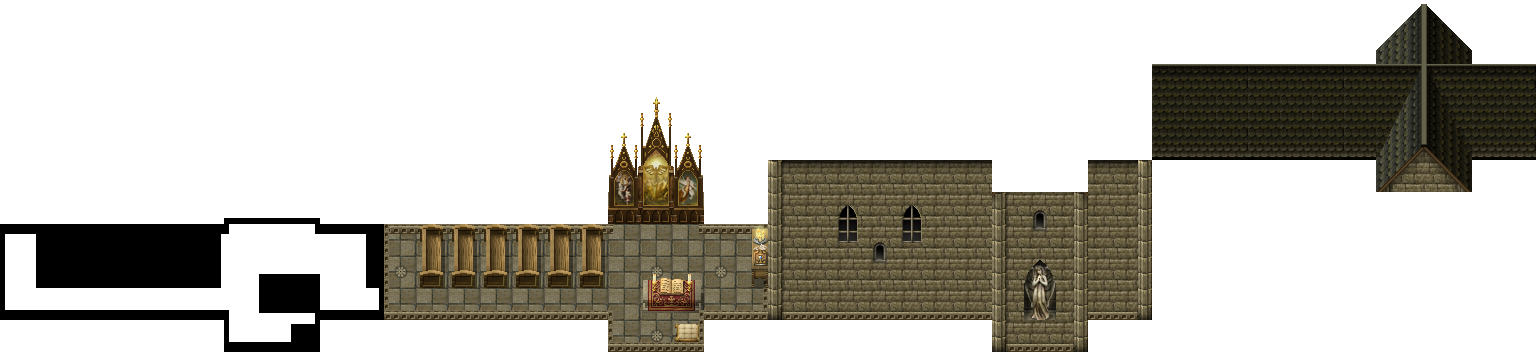
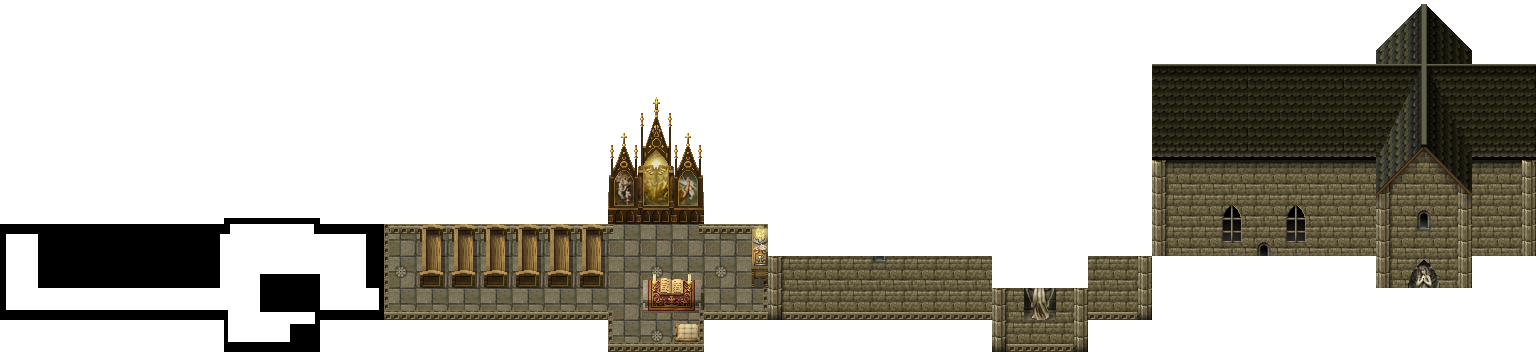
update game display

Changed region(s): [[0.5, 0.4375, 1.0, 0.8438]]

diff --git a/src/print_map.c b/src/print_map.c
@@ -7,26 +7,12 @@
 
 #include "rpg.h"
 
-void check_sprite_position(sprite_t *sprites, obj_t **obj, wind_t wind)
+void check_sprite_position(sprite_t *sprites, obj_t **obj, wind_t wind,
+int opt)
 {
-    for (int j = 0; j <= sprites->end_layout[2] - 1; j++) {
-        if (sprites->pos[j]->x < (obj[1]->pos.x - 416) ||
-            sprites->pos[j]->x > (obj[1]->pos.x + 416) ||
-            sprites->pos[j]->y < (obj[1]->pos.y - 256) ||
-            sprites->pos[j]->y > (obj[1]->pos.y + 256))
-            continue;
-        else {
-            sfSprite_setPosition(sprites->sprite,
-                                            *(sprites->pos[j]));
-            sfRenderWindow_drawSprite(wind.wind,
-                                            sprites->sprite, NULL);
-        }
-    }
-}
+    int j = (opt == -1) ? 0 : sprites->end_layout[opt];
 
-void check_sprite_position2(sprite_t *sprites, obj_t **obj, wind_t wind)
-{
-    for (int j = sprites->end_layout[2]; j <= sprites->end_layout[3] - 1; j++) {
+    for (; j <= sprites->end_layout[opt + 1] - 1; j++) {
         if (sprites->pos[j]->x < (obj[1]->pos.x - 416) ||
             sprites->pos[j]->x > (obj[1]->pos.x + 416) ||
             sprites->pos[j]->y < (obj[1]->pos.y - 256) ||
@@ -43,12 +29,16 @@ void check_sprite_position2(sprite_t *sprites, obj_t **obj, wind_t wind)
 
 void print_map(sprite_t **sprites, obj_t **obj, wind_t wind)
 {
-    for (int i = 0; sprites[i] != NULL; i++)
-        check_sprite_position(sprites[i], obj, wind);
+    for (int j = -1; j < 2; j++) {
+        for (int i = 0; sprites[i] != NULL; i++)
+            check_sprite_position(sprites[i], obj, wind, j);
+    }
 }
 
 void print_map2(sprite_t **sprites, obj_t **obj, wind_t wind)
 {
-    for (int i = 0; sprites[i] != NULL; i++)
-        check_sprite_position2(sprites[i], obj, wind);
+    for (int j = 2; j < 4; j++) {
+        for (int i = 0; sprites[i] != NULL; i++)
+            check_sprite_position(sprites[i], obj, wind, j);
+    }
 }

diff --git a/src/main.c b/src/main.c
@@ -15,7 +15,7 @@ int main(int ac, char **av)
 {
     rpg_t rpg;
     obj_t **obj = malloc(sizeof(obj_t *) * 10);
-    house_t **house = malloc(sizeof(house_t *) * 5);
+    house_t **house = malloc(sizeof(house_t *) * 6);
     sfVector2u windowSize;
 
     rpg.debug = 0;
@@ -33,16 +33,17 @@ int main(int ac, char **av)
     windowSize = sfRenderWindow_getSize(rpg.wind.wind);
     rpg.wind.view = sfView_createFromRect((sfFloatRect){0, 0, windowSize.x, windowSize.y});
 
-    obj[0] = create_object("assets/hero_hitbox.png", (sfVector2f){10000, 1280}, (sfIntRect){0, 0, 32, 16}, sfTrue);
-    obj[1] = create_object("assets/hero.png", (sfVector2f){10000, 1280}, (sfIntRect){0, 0, 32, 64}, sfFalse);
+    obj[0] = create_object("assets/hero_hitbox.png", (sfVector2f){10280, 2800}, (sfIntRect){0, 0, 32, 16}, sfTrue);
+    obj[1] = create_object("assets/hero.png", (sfVector2f){10280, 2800}, (sfIntRect){0, 0, 32, 64}, sfFalse);
     for (int i = 2; i < 10; i++)
         obj[i] = NULL;
-    obj[4] = create_object("assets/yes.png", V2F(0, 0), (sfIntRect){0, 0, 11777, 2561}, sfFalse);
-    house[0] = create_house(2, (sfVector2f){10400, 768});
-    house[1] = create_house(3, (sfVector2f){10720, 864});
+    //obj[4] = create_object("assets/yes.png", V2F(0, 0), (sfIntRect){0, 0, 11777, 2561}, sfFalse);
+    house[0] = create_house(2, (sfVector2f){9200, 768});
+    house[1] = create_house(3, (sfVector2f){9520, 864});
     house[2] = create_house(0, (sfVector2f){10944, 896});
     house[3] = create_house(1, (sfVector2f){10400, 1280});
-    house[4] = NULL;
+    house[4] = create_house(4, (sfVector2f){10272, 480});
+    house[5] = NULL;
 
     sfSprite_setOrigin(obj[1]->sprite, (sfVector2f){16, 60});
 

diff --git a/src/globals.c b/src/globals.c
@@ -180,32 +180,36 @@ const char *save_path[3] = {
     "saves/save3.txt"
 };
 
-const char *house_path[4] = {
+const char *house_path[5] = {
     "assets/maison1.png",
     "assets/maison2.png",
     "assets/auberge.png",
-    "assets/forge.png"
+    "assets/forge.png",
+    "assets/church.png"
 };
 
-const sfIntRect house_rects[4] = {
+const sfIntRect house_rects[5] = {
     {0, 0, 160, 320},
     {0, 0, 224, 256},
     {0, 0, 320, 448},
-    {0, 0, 192, 352}
+    {0, 0, 192, 352},
+    {0, 0, 384, 352}
 };
 
-const sfVector2f door_pos[4] = {
+const sfVector2f door_pos[5] = {
     {0, 256},
     {0, 192},
     {160, 352},
-    {95, 160}
+    {95, 160},
+    {0, 270}
 };
 
-const sfIntRect door_rects[4] = {
+const sfIntRect door_rects[5] = {
     {0, 64, 96, 64},
     {0, 0, 96, 64},
     {0, 352, 96, 96},
     {0, 224, 96, 64},
+    {0, 64, 96, 64}
 };
 
 void (* const menu[6])(rpg_t *, obj_t **, house_t **) = {

diff --git a/src/game_display.c b/src/game_display.c
@@ -34,14 +34,14 @@ static void debug_txt(rpg_t *rpg, obj_t *obj)
 static void display(rpg_t *rpg, obj_t **obj, house_t **house)
 {
     sfRenderWindow_setView(WIND.wind, WIND.view);
-    //print_map(MAP.sprite, obj, rpg->wind);
+    print_map(MAP.sprite, obj, rpg->wind);
     //sfRenderWindow_drawSprite(WIND.wind, obj[HERO_HB]->sprite, NULL);
-    sfRenderWindow_drawSprite(WIND.wind, obj[4]->sprite, NULL);
+    //sfRenderWindow_drawSprite(WIND.wind, obj[4]->sprite, NULL);
     house_display(rpg, house);
     for (int i = 3; i > 0; i--)
         if (obj[i] != NULL)
             sfRenderWindow_drawSprite(WIND.wind, obj[i]->sprite, NULL);
-    //print_map2(MAP.sprite, obj, rpg->wind);
+    print_map2(MAP.sprite, obj, rpg->wind);
     for (int i = 0; house[i] != NULL; i++)
         if (house[i]->display_house == 1)
             sfRenderWindow_drawSprite(WIND.wind, house[i]->tab[ROOF], NULL);

diff --git a/src/game_init.c b/src/game_init.c
@@ -7,6 +7,11 @@
 
 #include "rpg.h"
 
+void start_game(rpg_t *rpg, obj_t **obj, house_t **house)
+{
+    rpg->debug = 1;
+}
+
 void init_game(rpg_t *rpg, obj_t **obj, house_t **house)
 {
     sfVector2u windSize = sfRenderWindow_getSize(WIND.wind);
@@ -16,10 +21,12 @@ void init_game(rpg_t *rpg, obj_t **obj, house_t **house)
                                 (windSize.x * 0.6), (windSize.y * 0.6)});
     for (int i = 0; i < 715; i++)
         MAP.sprite[i] = NULL;
-    //map_init(rpg);
-    //create_map(rpg);
+    map_init(rpg);
+    create_map(rpg);
+    GAME.auberge = false;
+    if (GAME.objectiv == 0)
+        start_game(rpg, obj, house);
     if (rpg->debug == 1)
         rpg->debug_txt = create_text("assets/arial.ttf", "yes", 20, V2F(obj[1]->pos.x - 100, obj[1]->pos.y - 100));
-    GAME.auberge = false;
     game_loop(rpg, obj, house);
 }

diff --git a/src/map_init.c b/src/map_init.c
@@ -45,13 +45,13 @@ MAP.gid[l]->path, layers->map[y][x], posRect);
     }
 }
 
-void set_end_layout(int layout, sprite_t **sprite)
+void set_end_layer(int layer, sprite_t **sprite)
 {
     int j;
 
     for (int i = 0; sprite[i] != NULL; i++) {
         for (j = 0; sprite[i]->pos[j] != NULL; j++);
-        sprite[i]->end_layout[layout] = j;
+        sprite[i]->end_layout[layer] = j;
     }
 }
 
@@ -61,8 +61,8 @@ void create_map(rpg_t *rpg)
         for (int y = 0; y < MAP.layers[i]->height; y++) {
             tilemaping(MAP.layers[i], rpg, y);
         }
-        set_end_layout(i, MAP.sprite);
+        set_end_layer(i, MAP.sprite);
     }
     for (int j = 0; MAP.sprite[j] != NULL; j++)
-        MAP.sprite[j]->end_layout[4] = -1;
+        MAP.sprite[j]->end_layout[5] = -1;
 }

diff --git a/src/menu/load_game_event.c b/src/menu/load_game_event.c
@@ -31,6 +31,7 @@ void check_mbutton_press_load(rpg_t *rpg, load_game_t *load, obj_t **obj,
     init_save(obj, rpg);
     sfRenderWindow_drawSprite(WIND.wind, MENU.menu_sprite[LOAD], NULL);
     sfRenderWindow_display(WIND.wind);
+    GAME.objectiv = 1;
     init_game(rpg, obj, house);
 }
 
@@ -63,6 +64,7 @@ int check_button_pressed_load(rpg_t *rpg, load_game_t *load, obj_t **obj,
         init_save(obj, rpg);
         sfRenderWindow_drawSprite(WIND.wind, MENU.menu_sprite[LOAD], NULL);
         sfRenderWindow_display(WIND.wind);
+        GAME.objectiv = 1;
         init_game(rpg, obj, house);
         return 1;
     }

diff --git a/src/menu/new_game_event.c b/src/menu/new_game_event.c
@@ -30,6 +30,7 @@ void check_mbutton_press_new(rpg_t *rpg, load_game_t *load, obj_t **obj,
     init_save(obj, rpg);
     sfRenderWindow_drawSprite(WIND.wind, MENU.menu_sprite[LOAD], NULL);
     sfRenderWindow_display(WIND.wind);
+    GAME.objectiv = 0;
     init_game(rpg, obj, house);
 }
 
@@ -51,6 +52,7 @@ int check_button_pressed_new(rpg_t *rpg, load_game_t *load, obj_t **obj,
         init_save(obj, rpg);
         sfRenderWindow_drawSprite(WIND.wind, MENU.menu_sprite[LOAD], NULL);
         sfRenderWindow_display(WIND.wind);
+        GAME.objectiv = 0;
         init_game(rpg, obj, house);
         return 1;
     }

diff --git a/include/struct.h b/include/struct.h
@@ -98,6 +98,7 @@ typedef struct game_s {
     int nb_save;
     int auberge;
     int language;
+    int objectiv;
     sfMusic *back_music;
     simple_vector_t *follower;
     simple_vector_t *follower2;
@@ -166,12 +167,12 @@ typedef struct sprite_s
     int id;
     sfSprite *sprite;
     sfVector2f **pos;
-    int end_layout[5];
+    int end_layout[6];
 } sprite_t;
 
 typedef struct map_s {
-    first_gid_t *gid[4];
-    layer_t *layers[5];
+    first_gid_t *gid[8];
+    layer_t *layers[6];
     sprite_t *sprite[715];
 } map_t;
 

diff --git a/include/globals.h b/include/globals.h
@@ -9,10 +9,10 @@
 #define GLOBALS_H_
 
 extern const char *save_path[3];
-extern const char *house_path[4];
-extern const sfIntRect house_rects[4];
-extern const sfIntRect door_rects[4];
-extern const sfVector2f door_pos[4];
+extern const char *house_path[5];
+extern const sfIntRect house_rects[5];
+extern const sfIntRect door_rects[5];
+extern const sfVector2f door_pos[5];
 extern const char *menu_path[2];
 extern const char *menu_str[6];
 extern const char *menu_desc[6];
